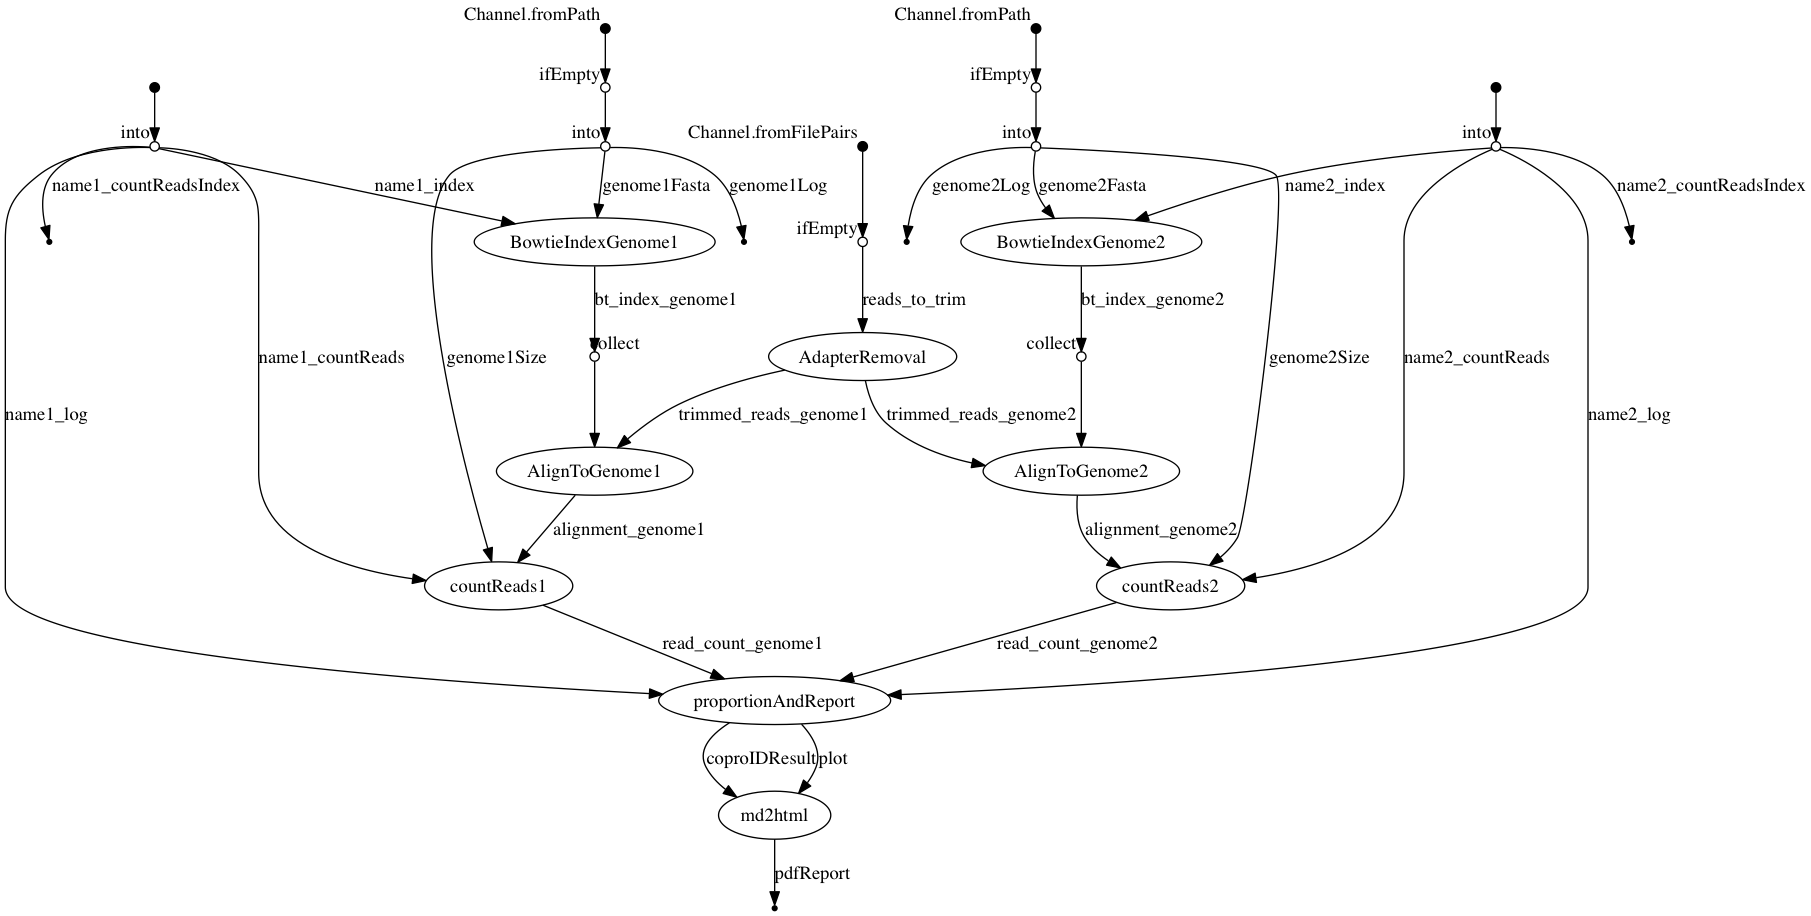
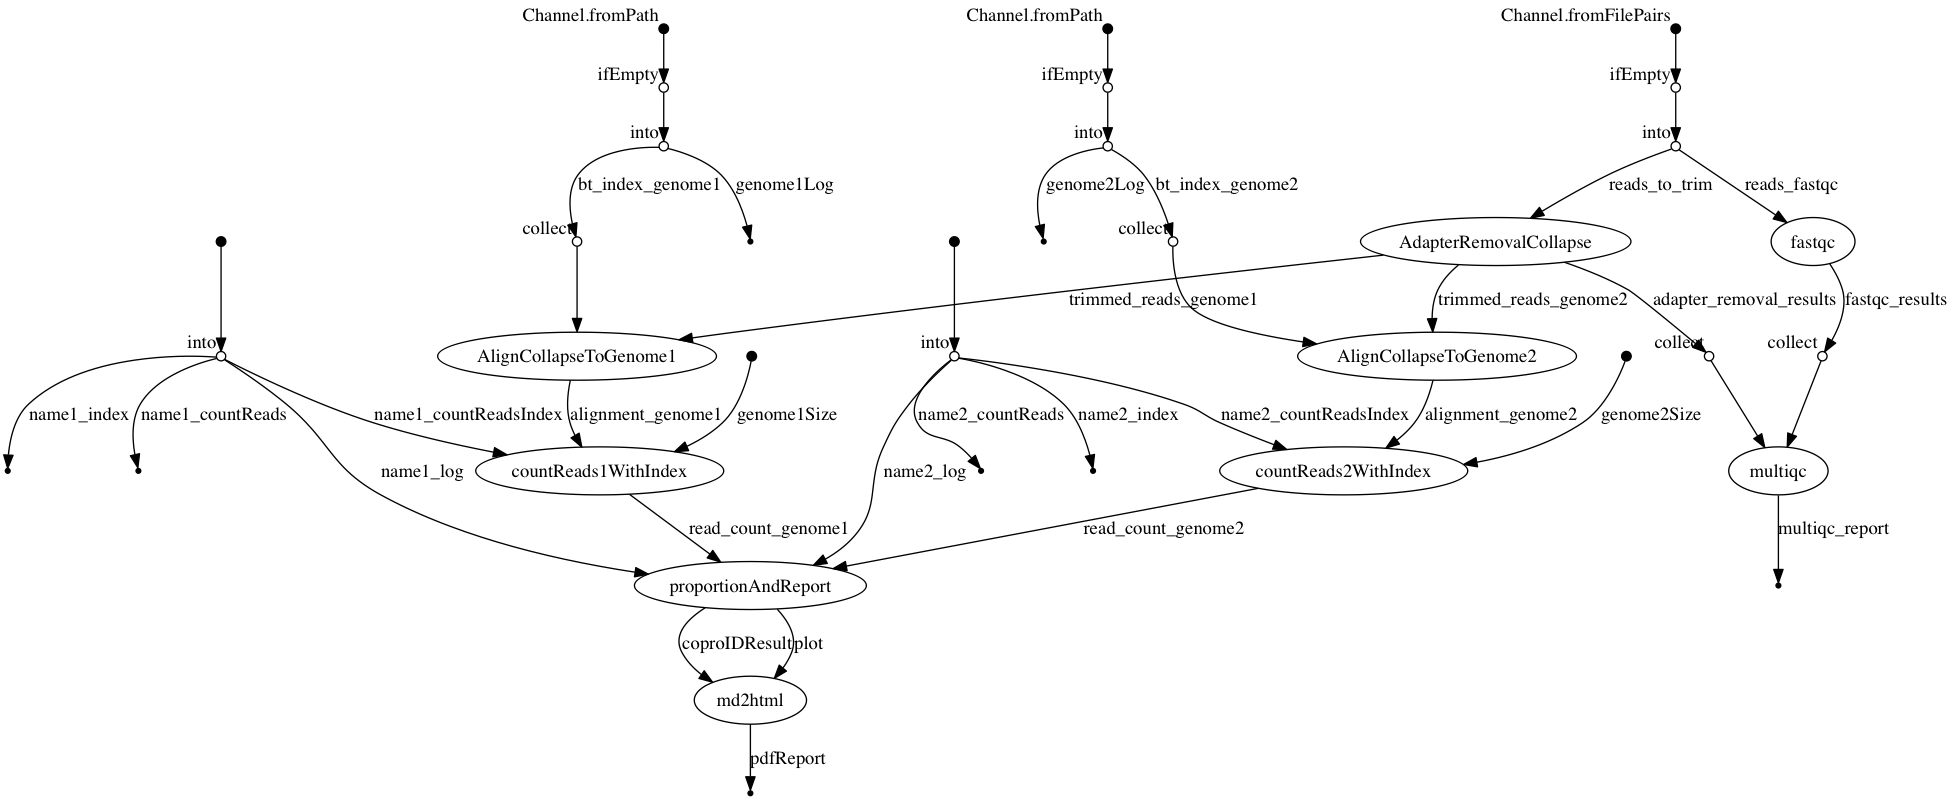
update doc and readme

diff --git a/README.md b/README.md
@@ -31,14 +31,14 @@ nextflow run maxibor/coproid --genome1 'genome1.fa' --genome2 'genome2.fa' --nam
 ```
 $ nextflow run maxibor/coproid --help
 N E X T F L O W  ~  version 0.31.1
-Launching `maxibor/coproid` [stupefied_borg] - revision: f062739210
+Launching `maxibor/coproid` [confident_poincare] - revision: 4a14e6475d
 
 =========================================
  coproID: Coprolite Identification
  Homepage / Documentation: https://github.com/maxibor/coproid
  Author: Maxime Borry <borry@shh.mpg.de>
- Version 0.4
- Last updated on September 26th, 2018
+ Version 0.5
+ Last updated on September 28th, 2018
 =========================================
 Usage:
 The typical command for running the pipeline is as follows:
@@ -56,6 +56,7 @@ Options:
   --genome2                     Path to candidate 2 Coprolite maker's genome fasta file (must be surrounded with quotes)- If index2 is not set
   --index2                      Path to Bowtie2 index genome andidate 2 Coprolite maker's genome, in the form of /path/to/*.bt2 - If genome2 is not set
   --genome2Size                 Size of candidate 2 Coprolite maker's genome in bp - If genome2 is not set
+  --collapse                    Specifies if AdapterRemoval should merge the paired-end sequences or not (yes | no). Default = yes
   --identity                    Identity threshold to retain read alignment. Default = 0.85
   --bowtie                      Bowtie settings for sensivity (very-fast | very-sensitive). Default = very-sensitive
 

diff --git a/docs/source/intro.md b/docs/source/intro.md
@@ -29,14 +29,14 @@ nextflow run maxibor/coproid --genome1 'genome1.fa' --genome2 'genome2.fa' --nam
 ```
 $ nextflow run maxibor/coproid --help
 N E X T F L O W  ~  version 0.31.1
-Launching `maxibor/coproid` [stupefied_borg] - revision: f062739210
+Launching `maxibor/coproid` [confident_poincare] - revision: 4a14e6475d
 
 =========================================
  coproID: Coprolite Identification
  Homepage / Documentation: https://github.com/maxibor/coproid
  Author: Maxime Borry <borry@shh.mpg.de>
- Version 0.4
- Last updated on September 26th, 2018
+ Version 0.5
+ Last updated on September 28th, 2018
 =========================================
 Usage:
 The typical command for running the pipeline is as follows:
@@ -54,6 +54,7 @@ Options:
   --genome2                     Path to candidate 2 Coprolite maker's genome fasta file (must be surrounded with quotes)- If index2 is not set
   --index2                      Path to Bowtie2 index genome andidate 2 Coprolite maker's genome, in the form of /path/to/*.bt2 - If genome2 is not set
   --genome2Size                 Size of candidate 2 Coprolite maker's genome in bp - If genome2 is not set
+  --collapse                    Specifies if AdapterRemoval should merge the paired-end sequences or not (yes | no). Default = yes
   --identity                    Identity threshold to retain read alignment. Default = 0.85
   --bowtie                      Bowtie settings for sensivity (very-fast | very-sensitive). Default = very-sensitive
 

diff --git a/docs/source/methods.md b/docs/source/methods.md
@@ -1,0 +1,29 @@
+Methods
+=======
+
+## Pipeline overview:
+ - **0 - Fastqc:** Quality reporting on the `.fastq` files
+
+ - **1.1 - AdapterRemoval:** Adapter trimming, quality filtering, and read merging (if specified)
+
+ - **1.2 - Bowtie2:** Indexing of Genome1
+
+ - **1.3 - Bowtie2:** Indexing of Genome2
+
+ - **2.1 - Bowtie2:** Reads alignment on Genome1
+
+ - **2.2 - Bowtie2:** Reads alignment on Genome2
+
+ - **3.1 - normalizedReadCount:** Count bp aligned on Genome1 and normalise by Genome1 size -> Nnr1
+
+ - **3.2 - normalizedReadCount:** Count bp aligned on Genome2 and normalise by Genome2 size -> Nnr2
+
+ - **4 - ComputeRatio:** Compute read proportion Nnr1/Nnr2 and write Markdown report
+
+ - **5 - Pandoc:** Convert Markdown report to HTML
+
+ - **6 - MultiQC:** Generates QC report
+
+ ## Example pipeline graph
+
+ ![](_static/_img/dag.png)

diff --git a/docs/source/output.md b/docs/source/output.md
@@ -3,11 +3,15 @@ Output
 
 ## coproID results
 
- `results/{fastq_file_basename}.html`  
+ - `results/{fastq_file_basename}.html`  
 
- This file is the report of **coproID** and contains explanations on how the calculation was performed, the files used, and your result.
+    This file is the report of **coproID** and contains explanations on how the calculation were performed, the files used, and your result.
 
- An example **coproID** output file file can be found [here](_static/simulated_coprolyte.html)
+    An example **coproID** output file file can be found [here](_static/simulated_coprolyte.html)
+
+- `results/multiqc_report.html`
+
+    This file is generated by [MultiQC](http://multiqc.info/) and reports the metrics of the different tools used by **coproID**
 
 ## coproID logs
 

diff --git a/docs/source/usage.md b/docs/source/usage.md
@@ -41,6 +41,11 @@ Example:
 nextflow run maxibor/coproid --genome1 'path/to/data/genomes/hsapiens.fa' --index2 'data/genomes/cfamiliaris/Bowtie2Index/*.bt2' --name1 'Homo_sapiens' --name2 'Canis_familiaris' --genome2size 2327650711 --reads '*_R{1,2}.fastq.gz'
 ```
 
+## To collapse or not collapse
+
+Depending on the size of your DNA fragments, you might want to play with the `--collapse` option.
+You can start by leaving it to default (`--collapse yes`), and changing it to `--collapse no` if you find that most of your reads aren't merged/collapsed by `AdapterRemoval` (Plot in `multiqc` report)
+
 ## Using coproID on a cluster
 
 To use **coproID** on a cluster, you add the `-profile` option.

diff --git a/docs/source/index.rst b/docs/source/index.rst
@@ -12,6 +12,7 @@ Welcome to coproID's documentation!
 
    intro
    installation
+   methods
    usage
    output
    troubleshooting
